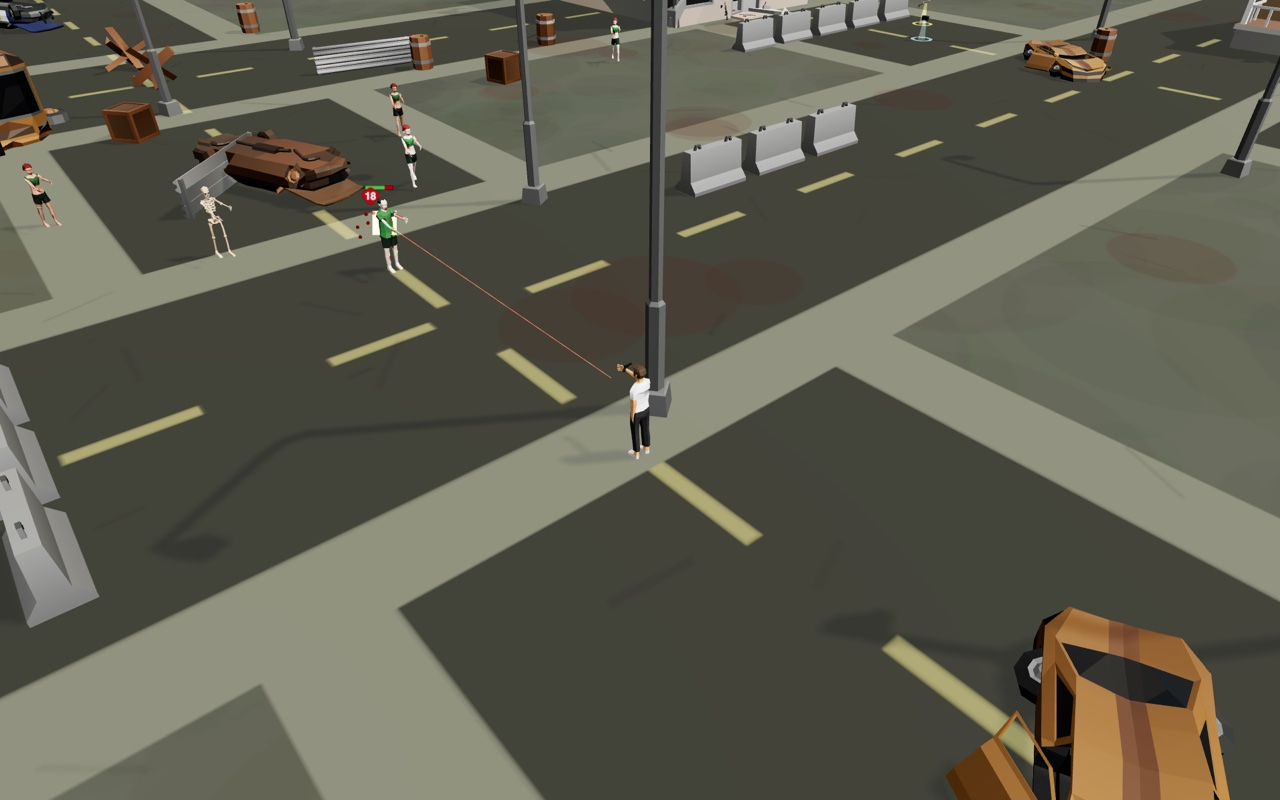
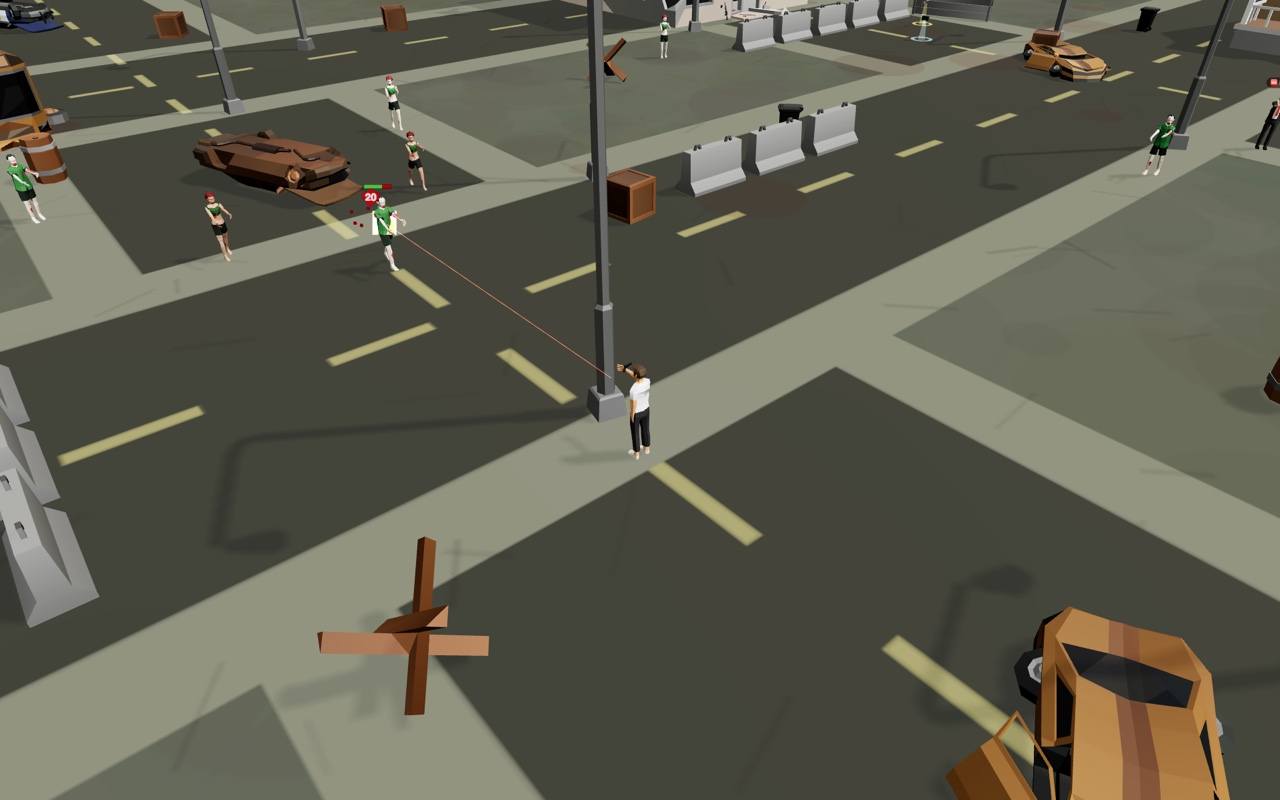
Deadtown: roadmap update + refresh thumbnail (content set complete)

diff --git a/gms/3d/deadtown/CLAUDE.md b/gms/3d/deadtown/CLAUDE.md
@@ -143,21 +143,22 @@ barrel forward); interior floor + pickup visibility (single tinted plane,
 floating spinning glowing pickups); **objective/mission chain** (`objectives.js`,
 HUD banner + rewards); **police armory + café** interiors; **escalating threat
 ramp** (horde grows + tougher with kills); **synthesized audio** (`audio.js` —
-gunshots/melee/hits/groans/pickups, no asset files); **kill-streak combos** +
-score multiplier; **day→night cycle** (`world.tickSky`). Good follow-ups:
+gunshots/melee/hits/groans/pickups/reload, no asset files); **kill-streak
+combos** + score multiplier; **day→night cycle** (`world.tickSky`); **line of
+sight** (no shooting through buildings — `losBlocked`); **reload + magazines**
+(per-weapon mag/reserve, auto-reload, `R`/tap to reload); **survivor NPCs**
+(`survivors.js` — rigged civilians you find cowering, Use to rescue → reward +
+flee, two rescue objectives). Good follow-ups:
 
-1. **Survivor NPCs**: export more rigged prefabs (Animated People pack via
-   `SkinnedExport.ExportList`) for rescuable allies driven by `buildRig` — tie to
-   an objective. Many prefabs available (`man_*`, `woman_*`).
-2. **Line of sight**: `aim.js` + `player.fireGun` lock/hit through walls — pass a
-   building-box segment test so you can't shoot through buildings.
-3. **Reload + magazines**: per-weapon mag size, a reload pose + timer + SFX,
-   out-of-mag auto-reload; HUD shows `mag/reserve`.
-4. **More open interiors**: burger joint, apartments, cabin, car wash are still
+1. **More open interiors**: burger joint, apartments, cabin, car wash are still
    `locked:true` in `BUILDINGS` — add `INTERIORS` specs + flip them.
-5. **Zombie variety/feel**: crawlers, a screamer that summons, pathing around
+2. **Zombie variety/feel**: crawlers, a screamer that summons, pathing around
    buildings (grid A* — none today; they walk straight + get pushed off walls).
-6. **Save the full state** (area, zombie/pickup positions) — currently only the
-   player + objective index serialize; you always resume in town.
-7. **Two-hand grip polish**: long guns bring the left arm up but it doesn't sit
+3. **Save the full state** (area, zombie/pickup/survivor positions) — currently
+   only the player + objective index serialize; you always resume in town.
+4. **Escort survivors**: instead of fleeing, have a rescued survivor follow you
+   to a safe point (the police armory) for a bigger reward.
+5. **Two-hand grip polish**: long guns bring the left arm up but it doesn't sit
    on the foregrip; add an IK-ish offset or a second hand attach.
+6. **Boss / special zombies**, weather, a real soundtrack (ACE-Step), a proper
+   start menu + difficulty select.